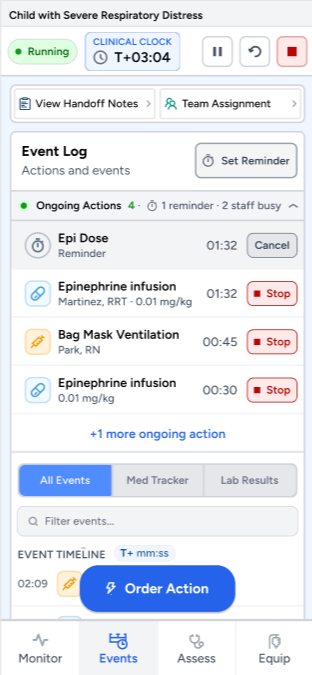
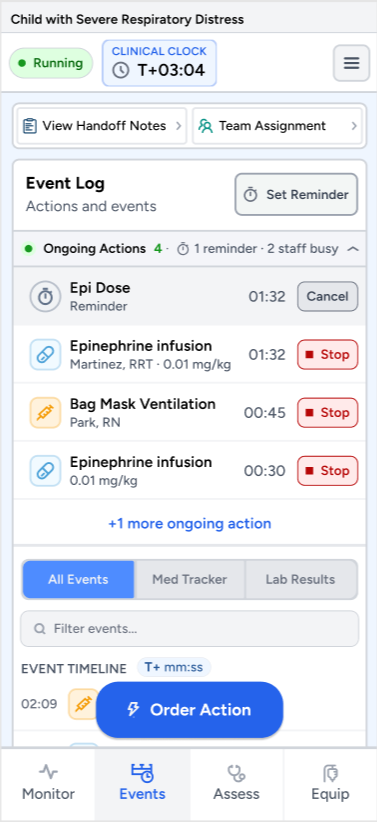
Updated SimAcademy project description and replaced mobile layout images with more recent ones

diff --git a/simacademy.html b/simacademy.html
@@ -15,8 +15,8 @@
             <span class="project-tag">UI/UX Design</span>
             <h1>SimAcademy</h1>
             <p class="case-study-intro">
-                Redesigning a clinical simulation platform to help medical students
-                understand assignments, stay on track, and make confident decisions.
+                Designing the interface for a clinical simulation platform, from the
+                live simulation screen to the learner dashboard, as the sole designer.
             </p>
         </header>
 
@@ -26,17 +26,17 @@
             <div class="case-study-columns">
                 <div>
                     <h3>Role</h3>
-                    <p>UI/UX Design Intern</p>
+                    <p>UI/UX Design Intern and sole designer</p>
                 </div>
 
                 <div>
                     <h3>Timeline</h3>
-                    <p>May 2025&ndash;August 2025</p>
+                    <p>May to August 2026</p>
                 </div>
 
                 <div>
                     <h3>Focus</h3>
-                    <p>Interface design, usability, and responsive layouts</p>
+                    <p>Interface design and prototyping in Figma, for desktop and mobile</p>
                 </div>
             </div>
         </section>
@@ -45,9 +45,39 @@
             <h2 id="problem-heading">The challenge.</h2>
 
             <p>
-                Medical students needed a clearer way to understand simulation
-                assignments, track their progress, and complete important actions
-                without losing context.
+                SimAcademy is a learning simulation platform made for medical programs, which give critical care simulations to
+                their students to help them master high-stakes clinical decision making. During a simulation, a student has to read a changing
+                patient state, keep track of what has already been done, and order the
+                next action, all against a running clock. The interface needed to keep
+                vitals, ongoing actions, assessments, and ordering in view together,
+                and it needed to work on both desktop and phone.
+            </p>
+        </section>
+
+        <section class="case-study-section" aria-labelledby="contribution-heading">
+            <h2 id="contribution-heading">What I designed.</h2>
+
+            <ul>
+                <li>A three-column simulation layout: patient monitor on the left, event log and actions hotbar in the center, and assessment, access and airway, handoff, and team assignment on the right.</li>
+                <li>The patient monitor, with a ventilator view.</li>
+                <li>The event log, with ongoing actions, a medication tracker, and lab results.</li>
+                <li>Action ordering: a search-first action bar, an action library, and a quick-access hotbar for prepped actions.</li>
+                <li>A medication prep queue that lets students prepare before the patient arrives.</li>
+                <li>A mobile layout built around four tabs: Monitor, Events, Assess, and Equip.</li>
+                <li>The learner dashboard and lesson attempts views.</li>
+            </ul>
+        </section>
+
+        <section class="case-study-section" aria-labelledby="review-heading">
+            <h2 id="review-heading">Changes from design review.</h2>
+
+            <p>
+                Review feedback directly changed the desktop layout. The action search
+                bar got a blue border so it reads as the primary input. The event log
+                moved to the center, with a medication tracker tab so students can see
+                what was given and when. The clock now shows clinical time only, placed
+                near the action bar, and the status, team, and handoff panels moved to
+                the right.
             </p>
         </section>
 
@@ -57,7 +87,7 @@
             <img
                 class="case-study-image"
                 src="images/simacademy-desktop.png"
-                alt="SimAcademy desktop interface"
+                alt="SimAcademy desktop simulation screen with patient monitor, event log, actions hotbar, and assessment panels"
             >
         </section>
 
@@ -91,15 +121,15 @@
                         src="images/action-library.png"
                         alt="SimAcademy action library"
                     >
-                    <figcaption>Action library</figcaption>
+                    <figcaption>Action library: browse or search every available action</figcaption>
                 </figure>
 
                 <figure>
                     <img
                         src="images/lessons-attempts-dashboard.png"
-                        alt="SimAcademy lessons and attempts dashboard"
+                        alt="SimAcademy lesson attempts dashboard"
                     >
-                    <figcaption>Lessons and attempts dashboard</figcaption>
+                    <figcaption>Lesson attempts dashboard</figcaption>
                 </figure>
 
                 <figure>
@@ -107,7 +137,7 @@
                         src="images/medication-prep-later-modal.png"
                         alt="SimAcademy medication preparation modal"
                     >
-                    <figcaption>Medication preparation flow</figcaption>
+                    <figcaption>Medication prep flow: apply now or prep for later</figcaption>
                 </figure>
             </div>
         </section>
@@ -116,9 +146,9 @@
             <h2 id="outcome-heading">Outcome.</h2>
 
             <p>
-                The redesigned experience organized complex medical simulation
-                tasks into clearer workflows and made key information easier to
-                find across desktop and mobile layouts.
+                I delivered designs and Figma prototypes for the live simulation screen
+                on desktop and mobile, the pre-simulation medication prep flow, and the
+                learner dashboard and lesson attempts views.
             </p>
         </section>
     </main>
